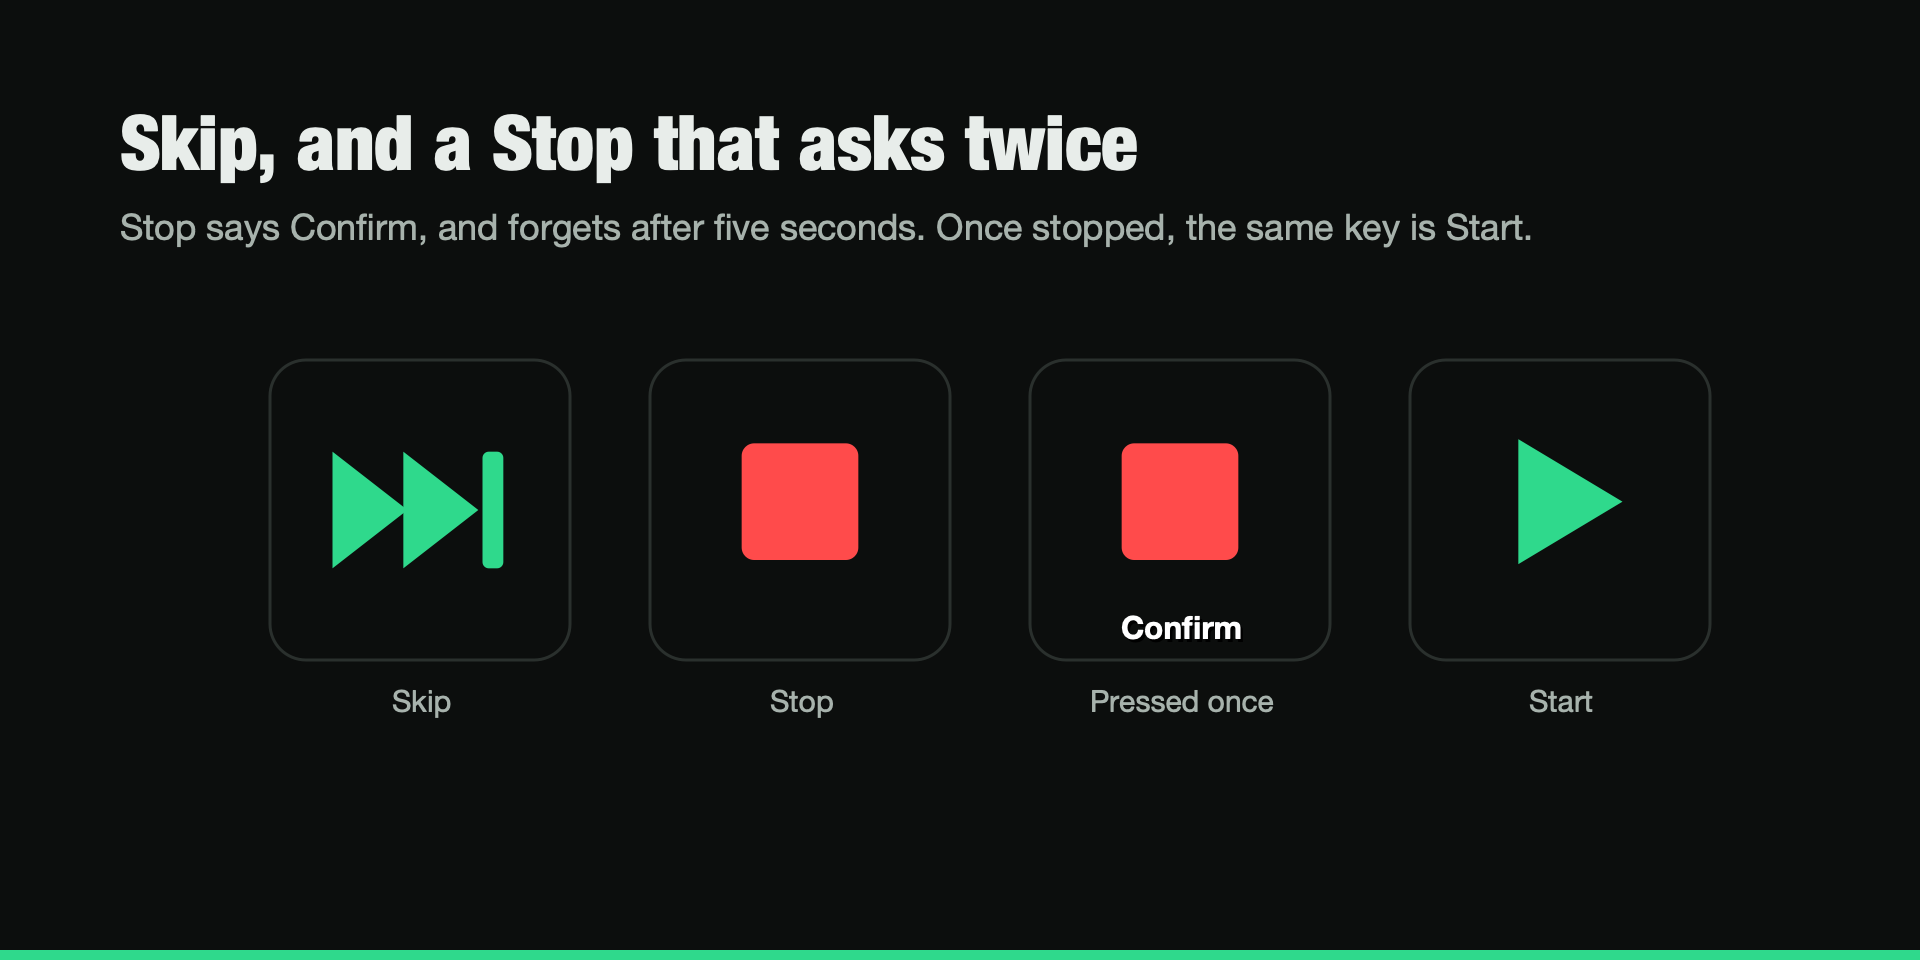
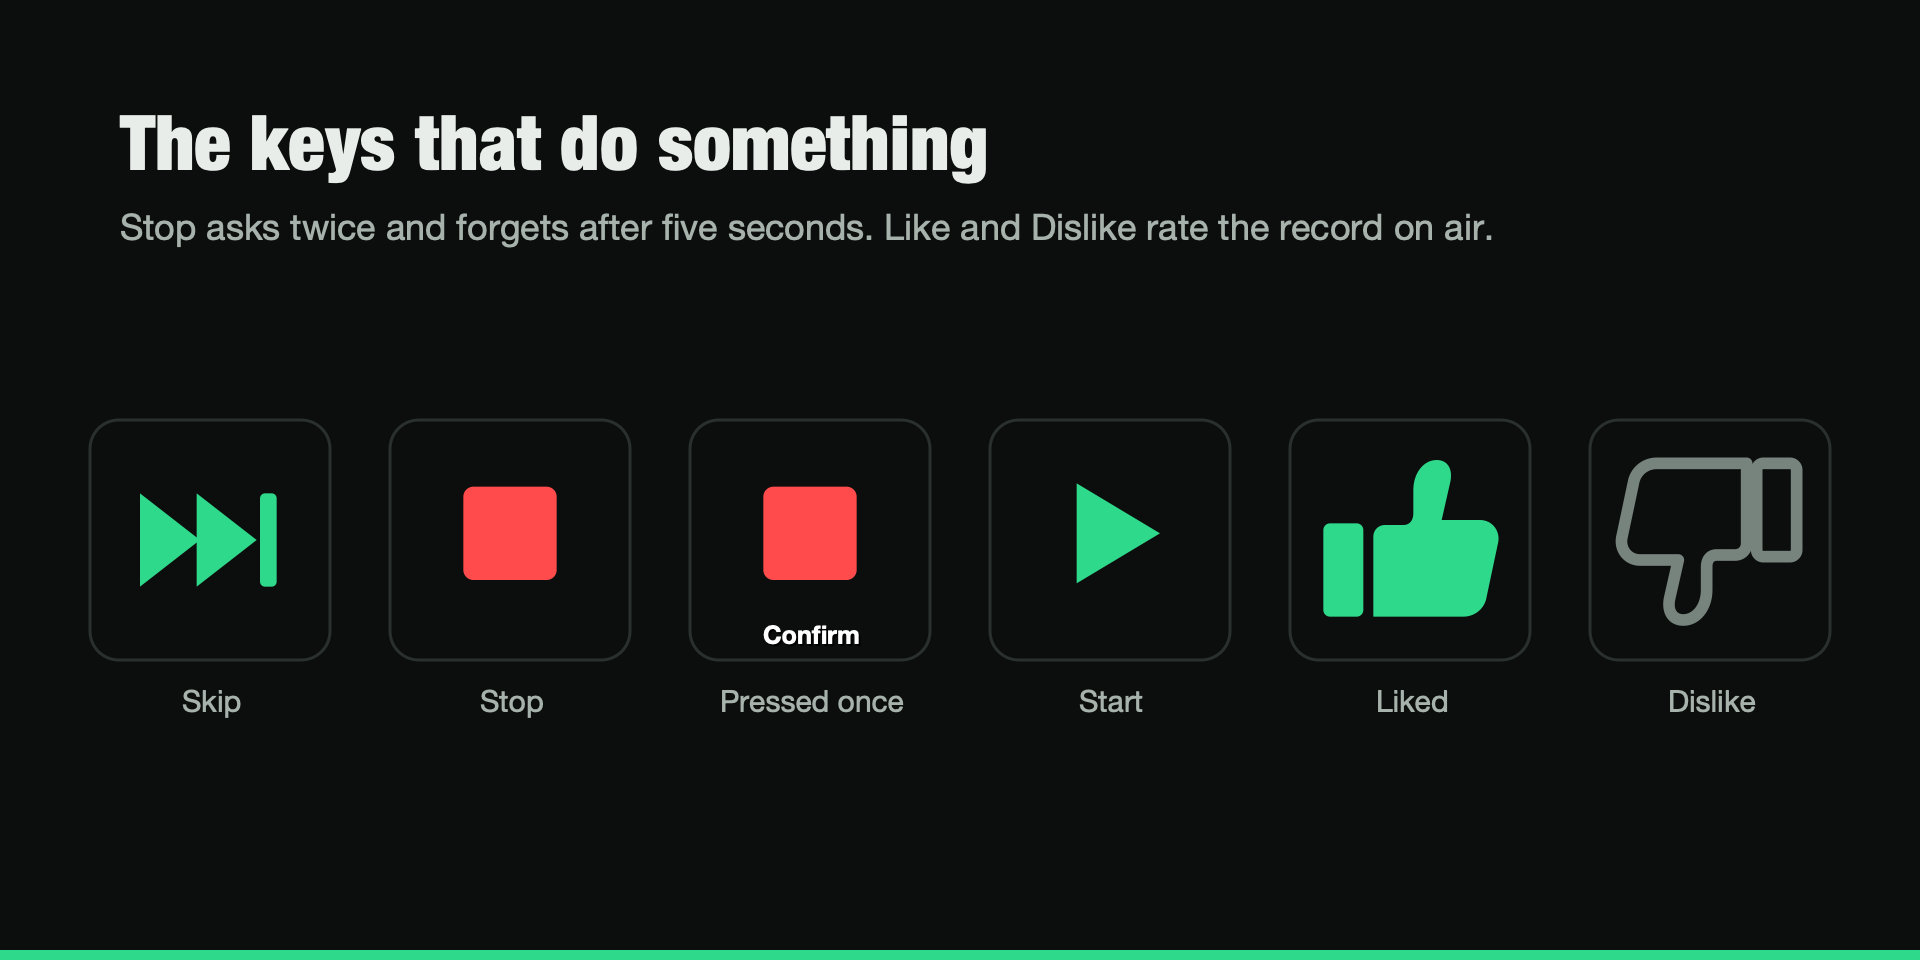
streamdeck: document the vote keys

diff --git a/apps/streamdeck/CLAUDE.md b/apps/streamdeck/CLAUDE.md
@@ -1,8 +1,9 @@
 # The station on a Stream Deck
 
 `apps/streamdeck` is an Elgato Stream Deck plugin: a Now Playing key (the cover, the title, a moving
-playhead), Skip, and one key that is Stop while the station is on air and Start once it is stood
-down. It is the operator's desk in hardware, and only the desk: it never plays the station.
+playhead), Skip, one key that is Stop while the station is on air and Start once it is stood down,
+and Like and Dislike, which write the station's opinion of the record on air. It is the operator's
+desk in hardware, and only the desk: it never plays the station.
 
 Every paragraph records a decision or a measured failure and the reason for it. The always-loaded
 index is [`CLAUDE.md`](../../CLAUDE.md); the operator-facing half is [`README.md`](README.md).
@@ -126,6 +127,49 @@ when there is nothing to resume, and the log says so.
 
 **Pressing Now Playing opens the console** at the station's address.
 
+## Like and Dislike
+
+**They write `PUT /catalog/tracks/{id}/rating`, which is the console's own write** from the running
+order (`apps/web/src/components/desk/desk.page.tsx`), for the reason that page gives: the running
+order is where an operator actually forms an opinion about a record, because they are hearing it. A
+deck is that, without the trip to a screen. The rating is the narrowest of the three the catalog
+holds — the song, not the release or the artist — and a dislike is an instruction rather than a
+preference: `candidates.repository.ts` excludes a disliked record from the draw and nothing the
+station programmes turns that off.
+
+**A press on the lit key writes `neutral`, and that is where this differs from the console on
+purpose.** `rating.control.tsx` gives `neutral` a segment of its own and says why: an operator should
+be able to see that the middle is where they started. A deck has no middle to see. Each key shows its
+own state instead, so pressing the lit one back off is both the ordinary Stream Deck toggle and the
+only way to withdraw an opinion without spending a third key on it. A key whose rating is not known
+yet draws unlit and writes its own value, so the first press of a record is never a withdrawal.
+
+**The rating is read once per RECORD, not carried on the status.** `GET /catalog/tracks/{id}` when
+the record changes, remembered by track id in `RatingStore`, and refreshed from the write's own
+answer — the cover's arrangement in `display/artwork.ts`, for the cover's reason. The alternative was
+`rating` on `PlayoutItem`, which would have kept the deck in step with the console at every moment
+and cost a catalog lookup on a route every console and every deck polls every two seconds, plus the
+four generated SDKs. What is given up is real and small: a rating changed in the console is not seen
+on the deck until the record changes.
+
+**A record that could not be asked about is remembered as such**, as a 404 cover is, so a failing
+station is asked once per record rather than on every redraw. A key issued Read only is refused the
+WRITE and not the read, so the ordinary shape of that is a key lit correctly that says in the log why
+it cannot be pressed — a different sentence from Skip's, because "Skip and Stop need Read and manage"
+is not what this key does.
+
+**The two keys are two actions and cannot see each other**, so they hear the store instead
+(`RatingStore.subscribe`): a press on Like takes the light off Dislike in the same beat rather than at
+the next poll. The store is emptied when the station changes, because a rating is remembered against
+a track id and another station's ids name other records, if they name anything. `StationLink.onChange`
+is what says so, rather than the plugin guessing from the settings.
+
+**A press is refused, and the station asked nothing, when there is nothing to rate**: no station, a
+reading that failed or is stale, nothing on air, or an item with no `trackId` — a break, whose words
+have no row in the catalog, or a record the station is airing without ever having ingested it. Both
+keys draw unlit on a stale reading however well the last opinion is known, by the rule the rest of
+this plugin follows: the opinion may be about the record before this one.
+
 ## What the Now Playing key draws
 
 **The cover is embedded in an SVG the app rasterises**, so no image decoder ships: a native one cannot
@@ -233,7 +277,10 @@ settings round trip, polling with the bearer and the plugin's User-Agent, the ti
 drawn and the bar stepping, the cover fetched with no `Authorization` header, a press opening the
 console, a skip, an armed and fired Stop, a Start, and the settings panel in a browser saying in turn
 that it needs an address, a key, that a wrong key was refused by a station it found, and that the
-right one connects. Two Now Playing keys with different settings, one drawing the cover alone, and
+right one connects. The rating read once for both vote keys and not again while the record plays,
+a press that writes, a second press that withdraws, a press on Like taking the light off Dislike, a
+break and a stale reading both refusing the press, and a Read-only key reading the rating and being
+refused the write with voting's own sentence in the log. Two Now Playing keys with different settings, one drawing the cover alone, and
 a settings change redrawing only its own key; the panel's checkboxes opened on a key's own settings
 and sending each tick. The embedded cover, the bar and the shade render in macOS's own SVG renderer.
 
@@ -249,3 +296,9 @@ with a key issued Read and manage.
 And the packed `.streamDeckPlugin`, built by the `installer` script and installed by double-click
 over an unlinked dev copy, works the same: the ES module survives packing and the keys kept their
 settings, which the app stores against the plugin's id rather than its folder.
+
+**Like and Dislike have NOT been on a device.** They were driven through the built bundle against a
+fake app and a fake station — both actions registering off the manifest, the rating read once, a
+press writing, a second press withdrawing, and Like going dark when Dislike was pressed — which
+settles the wiring and not the picture. What is still open is whether the lit and unlit faces tell
+each other apart at 72 pixels across a room, which is the one thing only the hardware answers.

diff --git a/apps/streamdeck/README.md b/apps/streamdeck/README.md
@@ -1,6 +1,7 @@
 # deadair for Stream Deck
 
-Your station on an Elgato Stream Deck: what is on air, Skip, and a Stop that asks twice.
+Your station on an Elgato Stream Deck: what is on air, Skip, a Stop that asks twice, and a thumb up
+or down on the record playing.
 
 ## The keys
 
@@ -16,6 +17,13 @@ that is only the cover. It still says why when nothing is playing.
 **Skip** ends the record or break on air and plays the next one. When there is nothing to skip it
 shows the warning triangle and does nothing.
 
+**Like** and **Dislike** tell the station what it should think of the record on air, which is the
+same opinion you would set from the running order in the console. The key lights up when the station
+already thinks what it says; press the lit one again to take the opinion back. A like means play this
+more often; a dislike means never play it again, and the station obeys that. Neither key does
+anything to a break, to a record your library has never ingested, or while the station is not
+answering: it shows the warning triangle instead.
+
 **Stop or start** is Stop while the station is on air. Press it once and it says _Confirm_; press it
 again within five seconds and the station stops. Leave it and it forgets. Once the station is stopped
 the same key is Start, which brings it back at once.
@@ -29,8 +37,9 @@ the last record it knew, faint and never in the on-air colour.
    [release](https://github.com/robert-dean/deadair/releases?q=streamdeck), or install it from the
    Elgato Marketplace. It needs the Stream Deck app 7.1 or later.
 2. In the station's console, go to **Settings, Security, API keys** and issue a key. Choose **Read
-   and manage** if you want Skip and Stop to work; **Read only** is enough for Now playing. Copy the
-   key: the console shows it once.
+   and manage** if you want Skip, Stop and voting to work; **Read only** is enough for Now playing,
+   and for Like and Dislike to show you what the station already thinks. Copy the key: the console
+   shows it once.
 3. Drag a deadair key onto your Stream Deck, open its settings, and enter the station's address (the
    one you open the console at, such as `radio.example.com`) and the key. **Test connection** says
    whether both work.
@@ -46,6 +55,8 @@ Stream Deck using a key, revoke the key in the console.
 
 The plugin asks the station what is on air every two seconds while a deadair key is showing, and
 nothing while none is. It fetches covers from wherever the station says they are, without the key.
+With a Like or Dislike key on the deck it also asks what the station thinks of each record once, when
+that record starts.
 
 ## When something is wrong
 
@@ -53,8 +64,9 @@ nothing while none is. It fetches covers from wherever the station says they are
 - **No station**: nothing answered at the address. Check it, and that the station is running.
 - **Key refused**: the station does not accept the key. It may be mistyped, revoked or expired.
 - **Not allowed**: the account that issued the key may not read the station.
-- **The warning triangle on Skip or Stop**: there was nothing to skip, the station was not answering,
-  or the key is Read only. The log says which; for the last, issue a key with Read and manage.
+- **The warning triangle on Skip, Stop, Like or Dislike**: there was nothing to skip or to rate, the
+  station was not answering, or the key is Read only. The log says which; for the last, issue a key
+  with Read and manage.
 
 The plugin's log is in its folder, under `logs/`: on a Mac,
 `~/Library/Application Support/com.elgato.StreamDeck/Plugins/radio.deadair.streamdeck.sdPlugin/logs/`,

diff --git a/apps/streamdeck/marketplace/listing.md b/apps/streamdeck/marketplace/listing.md
@@ -26,13 +26,18 @@ Under the console's 1,500 characters.
 >
 > Skip ends the record or break on air and plays the next one.
 >
+> Like and Dislike set what the station thinks of the record playing, the same opinion you would
+> set from the running order in the console: a like plays it more often, a dislike means never
+> again. The key lights up when the station already agrees; press the lit one to take it back.
+>
 > Stop or start stops the station on the second press within five seconds, so a stray press never
 > takes it off air, and once it is stopped the same key starts it again.
 >
 > You enter your station's address and an API key once, in any deadair key's settings, and every
 > key shares them. The key is issued in the station's console under Settings, Security, API keys:
-> Read only is enough for Now playing, and Skip and Stop need Read and manage. It stays on your
-> computer and never goes into a Stream Deck profile you export.
+> Read only is enough for Now playing, and for seeing what the station thinks of a record; Skip,
+> Stop and voting need Read and manage. It stays on your computer and never goes into a Stream Deck
+> profile you export.
 >
 > The plugin needs a deadair station to talk to. deadair is free and open source:
 > https://deadair.radio
@@ -40,6 +45,10 @@ Under the console's 1,500 characters.
 ## Release notes (0.1.0)
 
 The first release: Now playing, Skip, and Stop or start.
+
+## Release notes (next)
+
+Like and Dislike: rate the record on air from the deck, and press the lit key again to take it back.
 
 ## Links
 

diff --git a/.changeset/README.md b/.changeset/README.md
@@ -1,7 +1,7 @@
 # Changesets
 
 A changeset is a file here that names the packages a change touches, how far it bumps each, and a
-paragraph for the changelog. `pnpm changeset` writes one. Four things are released from this tree,
+paragraph for the changelog. `pnpm changeset` writes one. Five things are released from this tree,
 and a changeset can name any of them:
 
 - **The station**: every `@deadair/*` package under `apps/api`, `apps/web`, `packages/` and
@@ -10,6 +10,7 @@ and a changeset can name any of them:
 - **`@deadair/android`**, the Android listener.
 - **`@deadair/desktop`**, the desktop listener and desk.
 - **`@deadair/ios`**, the iOS listener.
+- **`@deadair/streamdeck`**, the Elgato Stream Deck plugin.
 
 The paragraph becomes a bullet in that unit's changelog, word for word, so write it for whoever runs
 the station or listens to it. `@deadair/site` and the `@repo/*` configs are not versioned, and a

diff --git a/.changeset/chilled-donkeys-shout.md b/.changeset/chilled-donkeys-shout.md
@@ -1,0 +1,5 @@
+---
+'@deadair/streamdeck': minor
+---
+
+Like and Dislike: two new keys that set what the station thinks of the record on air, the same opinion you would set from the running order in the console. A like plays that record more often and a dislike means never again. The key lights up when the station already agrees, and pressing the lit one takes the opinion back. Both need an API key issued with Read and manage; a Read-only key still shows you what the station thinks.
